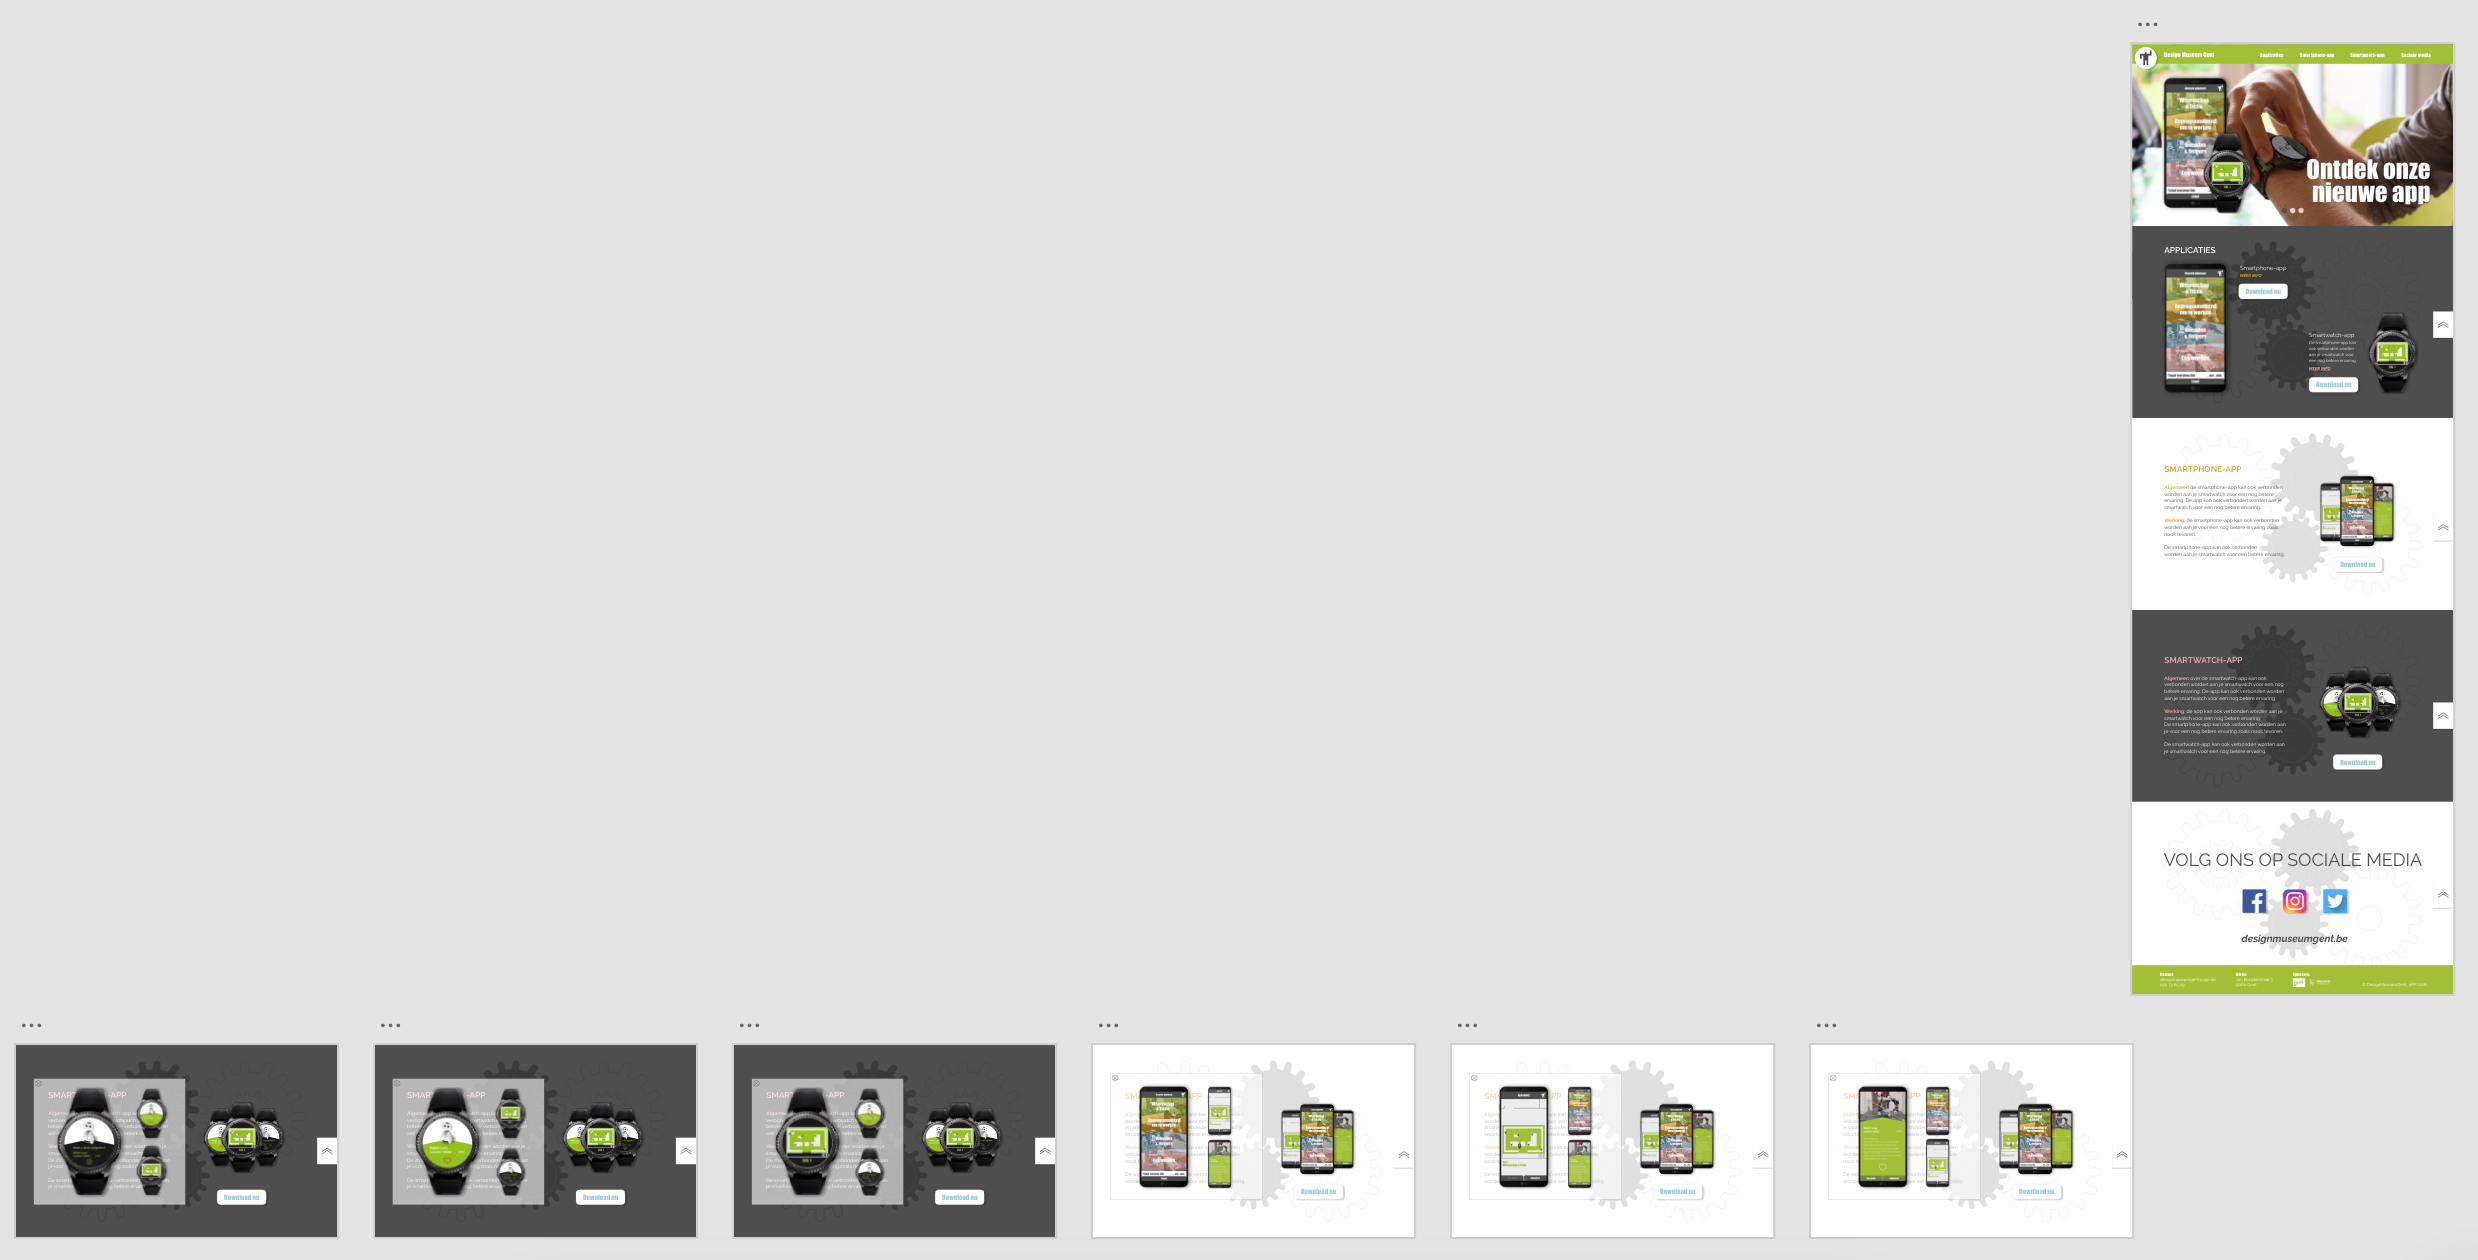
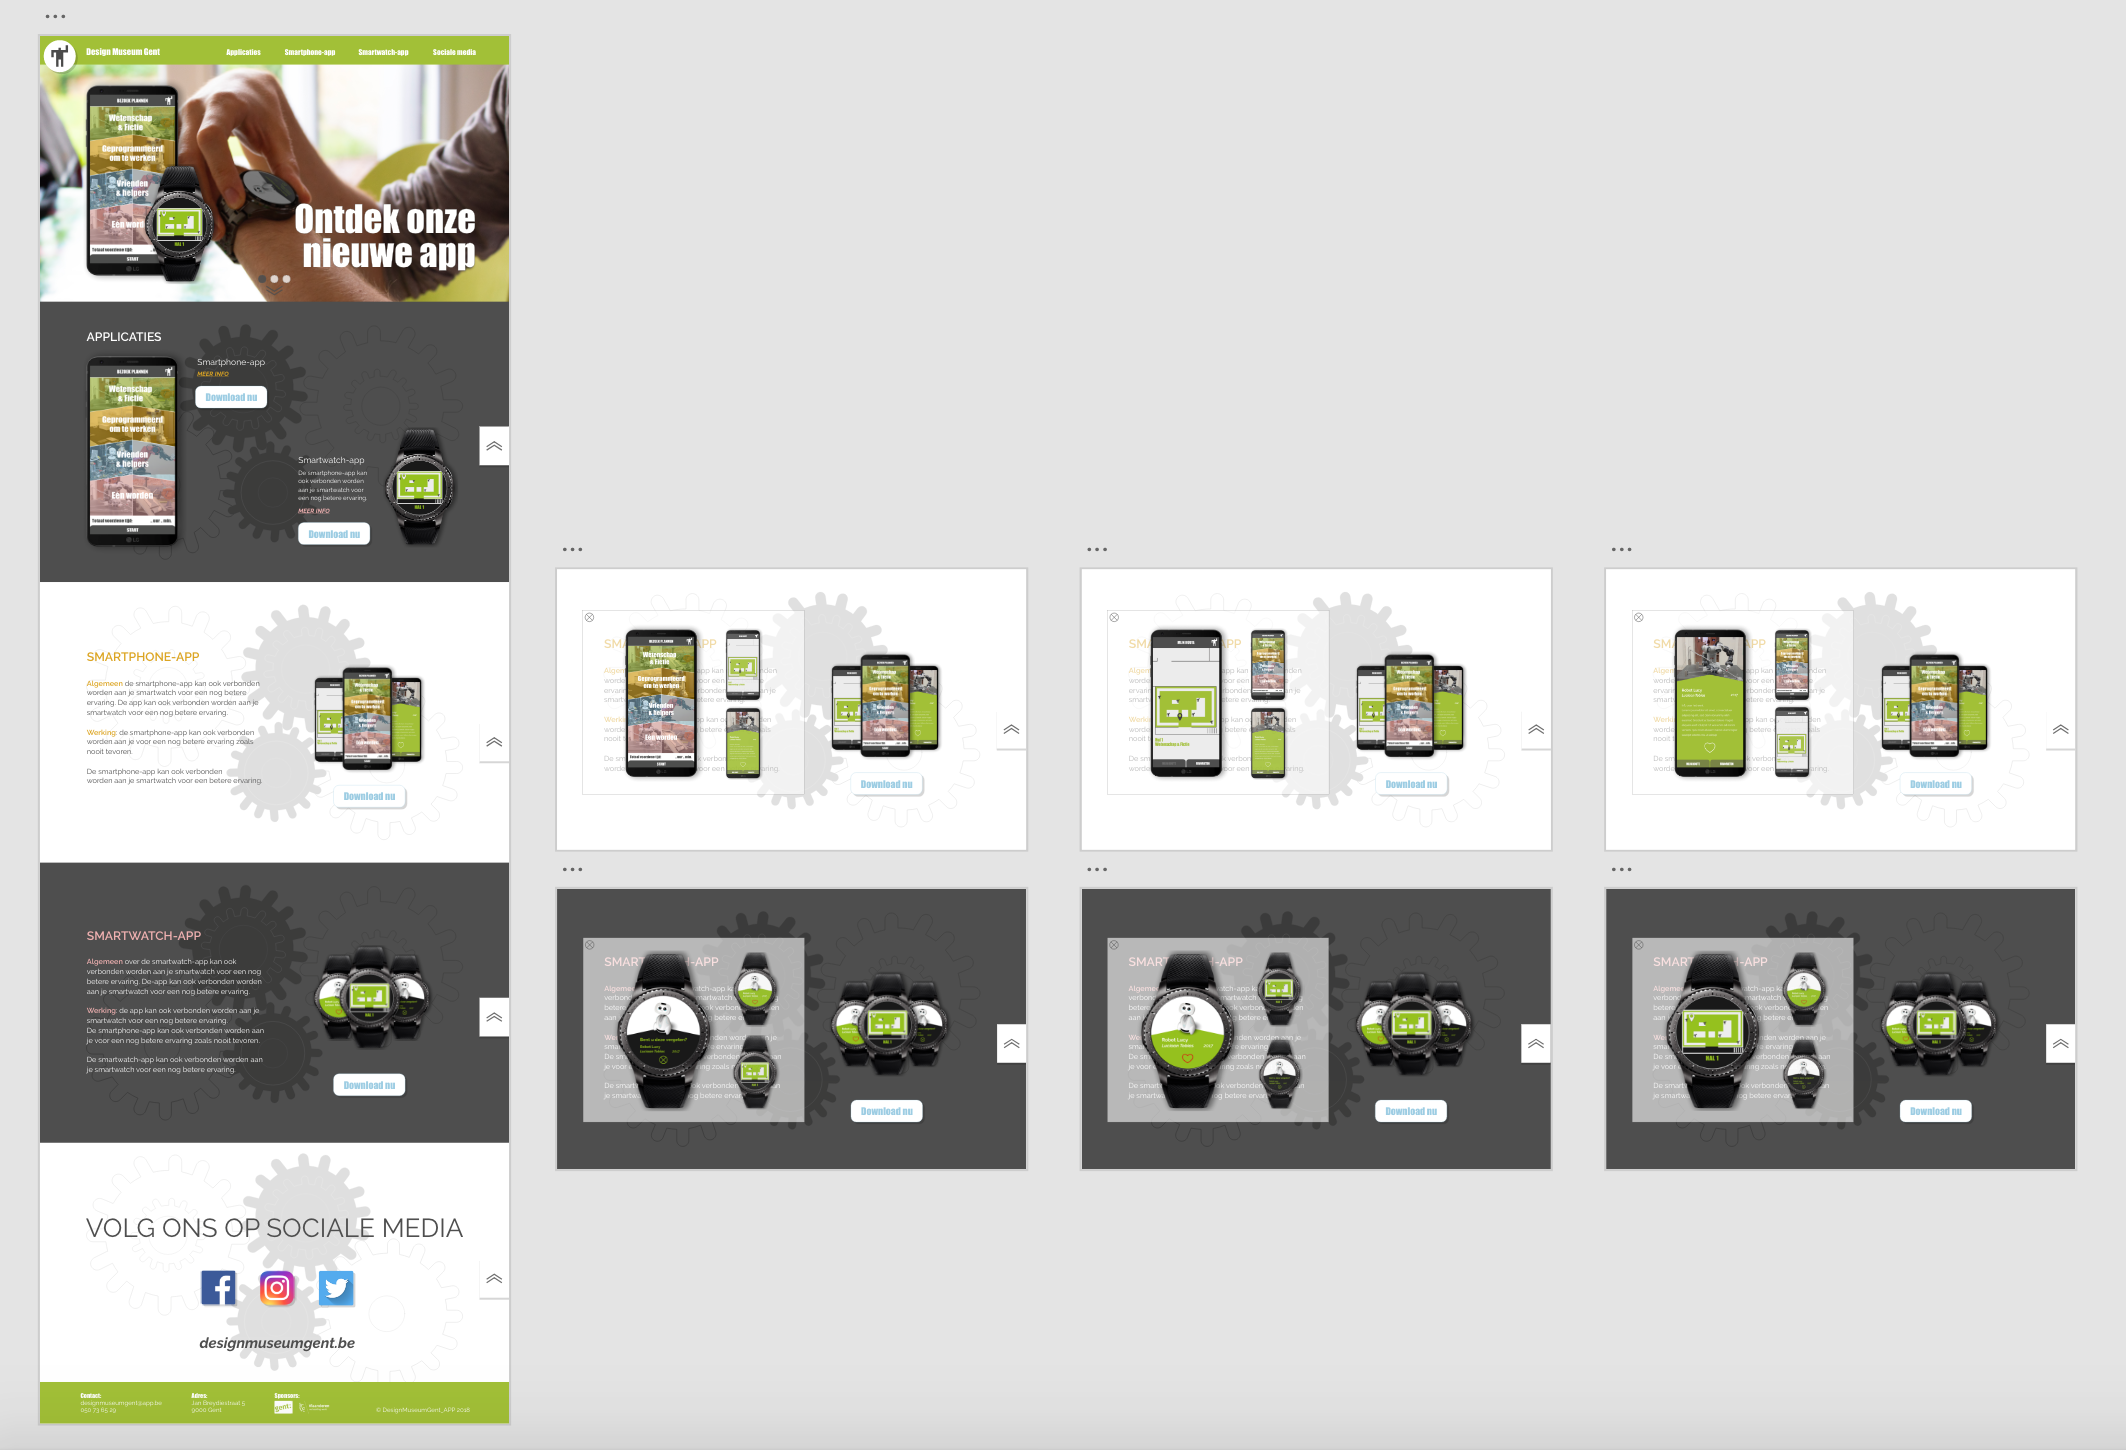
pushen3

diff --git a/docs/_sass/_bootstrap-variables.scss b/docs/_sass/_bootstrap-variables.scss
@@ -20,3 +20,159 @@ $primary: #A1BE37;
 @import url('https://fonts.google.com/specimen/Raleway');
 
 $font-family-base: Raleway, sans-serif;
+
+.alert-primary1{
+    color : white !important;
+    background-color: #a2c037;
+    border-color: #a2c037;
+    }
+
+.alert-primary2{
+    color : white !important;
+    background-color: #c65a1e;
+    border-color: #c65a1e;
+    }
+
+.alert-primary3{
+    color : white !important;
+    background-color: #F0B1B1;
+    border-color: #F0B1B1;
+    }
+
+.alert-primary4{
+    color : white !important;
+    background-color: #9DCDE3;
+    border-color: #9DCDE3;
+    }
+
+.alert-primary5{
+    color : white !important;
+    background-color: #3f3e3e;
+    border-color: #3f3e3e;
+    }
+
+.alert-primary6{
+    color : #3f3e3e !important;
+    background-color: #ececec;
+    border-color: #ececec;
+    }
+
+.alert-primary7{
+    color : #3f3e3e !important;
+    background-color: #ffffff;
+    border-color: #3f3e3e;
+    }
+
+.twee{
+    display: inline-block;
+    font-weight: 400;
+    text-align: center;
+    white-space: nowrap;
+    vertical-align: middle;
+    user-select: none;
+    border: 1px solid transparent;
+    font-size: 1rem;
+    line-height: 1.5;
+    transition: color 0.15s ease-in-out, background-color 0.15s ease-in-out, border-color 0.15s ease-in-out, box-shadow 0.15s ease-in-out;
+    padding: 5px 5px 5px 5px;
+    font-family: 'Impact', regular;
+    border-radius: 0.65rem !important;
+    }
+
+.btn-dark{
+    background-color: black !important;
+    border-color: black !important;
+}
+
+.btn-outline-info{
+    color : #a2c037 !important;
+    background-color: white !important;
+    border-color: #a2c037 !important;
+}
+.btn-outline-info:hover{
+    color : #a2c037 !important;
+    background-color: white !important;
+    border-color: #a2c037 !important;
+}
+
+.oranje{
+    color : #c65a1e !important;
+    background-color: white !important;
+    border-color: #c65a1e !important;
+}
+.oranje:hover{
+    color : #c65a1e !important;
+    background-color: white !important;
+    border-color: #c65a1e !important;
+}
+
+.blauw{
+    color : #9DCDE3 !important;
+    background-color: white !important;
+    border-color: #9DCDE3 !important;
+}
+.blauw:hover{
+    color : #9DCDE3 !important;
+    background-color: white !important;
+    border-color: #9DCDE3 !important;
+}
+
+.roze{
+    color : #F0B1B1 !important;
+    background-color: white !important;
+    border-color: #F0B1B1 !important;
+}
+.roze:hover{
+    color : #F0B1B1 !important;
+    background-color: white !important;
+    border-color: #F0B1B1 !important;
+}
+
+.btn-danger {
+    color: white !important;
+    background-color: #788446 !important;
+    border-color: #788446 !important;
+    }
+.linkse{
+    border-bottom-left-radius: 0rem !important;
+    border-bottom-right-radius: 0rem !important;
+    border-top-left-radius: 0rem !important;
+}
+.rechtse{
+    border-bottom-right-radius: 0rem !important;
+    border-bottom-left-radius: 0rem !important;
+    border-top-right-radius: 0rem !important;
+}
+
+.O {
+    background-color: #BF811F !important;
+    border-color: #BF811F!important;
+    }
+.B {
+    background-color: #6F92A2 !important;
+    border-color: #6F92A2!important;
+    }
+.R {
+    background-color: #BE8989 !important;
+    border-color: #BE8989!important;
+    }
+    
+.btn-secondary {
+    border-bottom-left-radius: 0rem !important;
+    border-bottom-right-radius: 0rem !important;
+    color: white !important;
+    background-color: #3f3e3e !important;
+    border-color: #3f3e3e !important;
+    }
+
+.btn-outline-success {
+    color: #9DCDE3 !important;
+    background-color: white !important;
+    border-color: #9DCDE3 !important;
+    }
+
+.btn-outline-success:hover {
+    color: white !important;
+    background-color: #9DCDE3 !important;
+    border-color: #9DCDE3 !important;
+    }

diff --git a/docs/_sass/app/_main.scss b/docs/_sass/app/_main.scss
@@ -49,3 +49,8 @@
     color: #788446;
     margin-bottom: 0px;
   }
+
+  .kleur {
+    color: #c65a1e;
+    font-size: 1.5em;
+  }

diff --git a/docs/pages/3__design/5-1-0_ui-style-guide__typografie.md b/docs/pages/3__design/5-1-0_ui-style-guide__typografie.md
@@ -6,19 +6,37 @@ published: true
 # ─────────────────────
 title: Typografie
 ---
+Applicaties
+------------
+{: .witruimte .witna}
 
-This is a h1
+<strong>Robot Lucy<br>
+Raleway Bold</strong>
 
-PT Mono
+<strong><i>Luciaan Tobias<br>
+Raleway Bold Italic</i></strong>
 
-This is a h2
+Info over het werk.
+Lorem ipsum dolor sit amet, consectetuer 
+adipiscing elit, sed diam nonummy nibh 
+euismod tincidunt ut laoreet dolore magna 
+aliquam erat volutpat. Ut wisi enim ad minim 
+veniam, quis nostrud exerci tation ullamcorper 
+suscipit lobortis nisl ut aliquip.<br>
+Raleway Regular
 
-PT Mono
+Website
+--------
+{: .witruimte .witna}
 
-This is a h3
+<strong>SMARTPHONE-APP<br>
+Raleway SemiBold</strong>
+{: .kleur}
 
-PT Mono
+<strong>Algemeen</strong> 
+de smartphone-app kan ook verbonden worden aan je smartwatch voor een nog betere ervaring. De app kan ook verbonden worden aan je smartwatch voor een nog betere ervaring.
 
-Lorem ipsum dolor sit amet, consectetuer adipiscing elit. Aenean commodo ligula eget dolor. Aenean massa. Cum sociis natoque penatibus et magnis dis parturient montes, nascetur ridiculus mus. Donec quam felis, ultricies nec, pellentesque eu, pretium quis, sem. Nulla consequat massa quis enim. Donec pede justo, fringilla vel, aliquet nec, vulputate eget, arcu. In enim justo, rhoncus ut, imperdiet a, venenatis vitae, justo. Nullam dictum felis eu pede mollis pretium. Integer tincidunt. Cras dapibus. Vivamus elementum semper nisi. Aenean vulputate eleifend tellus. Aenean leo ligula, porttitor eu, consequat vitae, eleifend ac, enim. Aliquam lorem ante, dapibus in, viverra quis, feugiat a, tellus. Phasellus viverra nulla ut metus varius laoreet. Quisque rutrum. Aenean imperdiet. Etiam ultricies nisi vel augue. Curabitur ullamcorper ultricies nisi. Nam eget dui.
+<strong>Werking:</strong> de smartphone-app kan ook verbonden worden aan je voor een nog betere ervaring zoals nooit tevoren.
 
-
+De smartphone-app kan ook verbonden worden aan je smartwatch voor een betere ervaring.<br>
+Raleway Regular

diff --git a/docs/pages/3__design/5-4-0_ui-style-guide__formulieren.md b/docs/pages/3__design/5-4-0_ui-style-guide__formulieren.md
@@ -6,3 +6,45 @@ published: true
 # ─────────────────────
 title: Formulieren
 ---
+Je moet maar één keer een formulier invullen en dat is op de smartphone-app:
+
+Registratie
+------------
+{: .witruimte}
+
+<form>
+    <div class="form-group">
+        <label for="InputName">Naam</label>
+        <input type="name" class="form-control" id="exampleInputEmail1" aria-describedby="emailHelp" placeholder="Leïla Minne">
+    </div>
+    <div class="form-group">
+        <label for="InputEmail">E-mailadres</label>
+        <input type="email" class="form-control" id="exampleInputEmail1" aria-describedby="emailHelp" placeholder="leilaminne@gmail.com">
+    </div>
+    <div class="form-group">
+        <label for="InputPassword">Wachtwoord</label>
+        <input type="password" class="form-control" id="exampleInputPassword1" aria-describedby="emailHelp" placeholder="Wachtwoord">
+    </div>
+    <div class="form-group">
+        <label for="InputPassword">Wachtwoord bevestigen</label>
+        <input type="password" class="form-control" id="exampleInputPassword1" aria-describedby="emailHelp" placeholder="Wachtwoord">
+    </div>
+ </form>
+
+Inloggen
+---------
+{: .witruimte}
+
+<form>
+    <div class="form-group">
+        <label for="InputEmail">E-mailadres</label>
+        <input type="email" class="form-control" id="exampleInputEmail1" aria-describedby="emailHelp" placeholder="leilaminne@gmail.com">
+    </div>
+    <div class="form-group">
+        <label for="InputPassword">Wachtwoord</label>
+        <input type="password" class="form-control" id="exampleInputPassword1" aria-describedby="emailHelp" placeholder="Wachtwoord">
+        <small id="emailHelp" class="form-text text-muted">
+            <a href="#">Uw wachtwoord vergeten?</a>
+        </small>
+    </div>
+ </form>

diff --git a/docs/pages/3__design/5-3-0_ui-style-guide__knoppen.md b/docs/pages/3__design/5-3-0_ui-style-guide__knoppen.md
@@ -6,3 +6,31 @@ published: true
 # ─────────────────────
 title: Knoppen
 ---
+
+Smartwatch-app
+---------------------------------
+{: .witruimte}
+
+<button type="button" class="btn twee btn-dark">Start</button>
+
+Smartphone-app
+----------------------------------
+{: .witruimte}
+
+<button type="button" class="btn twee btn-outline-info">Bezoek plannen</button> <button type="button" class="btn twee btn-outline-info oranje">Gepland bezoek</button> <button type="button" class="btn twee btn-outline-info blauw">Favorieten bezoek</button> <button type="button" class="btn twee btn-outline-info roze">Vrij bezoek</button>
+
+<button type="button" class="btn twee btn-danger linkse">Mijn route</button> <button type="button" class="btn twee btn-danger rechtse">Favorieten</button>
+
+<button type="button" class="btn twee btn-danger linkse R">Mijn route</button> <button type="button" class="btn twee btn-danger rechtse R">Favorieten</button>
+
+<button type="button" class="btn twee btn-danger linkse B">Mijn route</button> <button type="button" class="btn twee btn-danger rechtse B">Favorieten</button>
+
+<button type="button" class="btn twee btn-danger linkse O">Mijn route</button> <button type="button" class="btn twee btn-danger rechtse O">Favorieten</button>
+
+<button type="button" class="btn twee btn-secondary btn-lg btn-block">Bevestigen</button>
+
+Website
+---------------------------
+{: .witruimte}
+
+<button type="button" class="btn twee btn-outline-success" onclick="alert('U wordt doorverwezen naar een download pagina.')">Download nu</button>

diff --git a/docs/pages/3__design/5-2-0_ui-style-guide__kleuren.md b/docs/pages/3__design/5-2-0_ui-style-guide__kleuren.md
@@ -7,11 +7,17 @@ published: true
 title: Kleuren
 ---
 
-
-<div style="text-align:center">
-  <span class="dot db">#1E56A0</span>
-  <span class="dot test">#163172</span>
-  <span class="dot gr">#F6F6F6</span>
-  <span class="dot lb">#D6E4F0</span>
-  <span class="dot zw">#000000</span>
-</div>
+<div class="alert alert-primary1" role="alert">
+#a2c037</div>
+<div class="alert alert-primary2" role="alert">
+#c65a1e</div>
+<div class="alert alert-primary3" role="alert">
+#f0b1b1</div>
+<div class="alert alert-primary4" role="alert">
+#9dcde3</div>
+<div class="alert alert-primary5" role="alert">
+#3f3e3e</div>
+<div class="alert alert-primary6" role="alert">
+#ececec</div>
+<div class="alert alert-primary7" role="alert">
+#ffffff</div>

diff --git a/docs/pages/3__design/5-0-0__ui-style-guide.md b/docs/pages/3__design/5-0-0__ui-style-guide.md
@@ -7,6 +7,6 @@ published: true
 title: UI Style Guide
 ---
 
-[XD bestanden](https://xd.adobe.com/view/7248c441-7acd-4d0e-48b1-95fd2a36a023-0479/){:target="_blank"}{:.btn.btn-primary}
+Dit is een algemeen overzicht:
 
-De pagina's: typografie, kleuren, knoppen en formulieren, zijn niet aanwezig omdat deze al verwerkt zijn in één grote style guide.
+![ui-style-guide]({{ '/images/style-guide.png' | relative_url }}){:style="width: 100%"}
